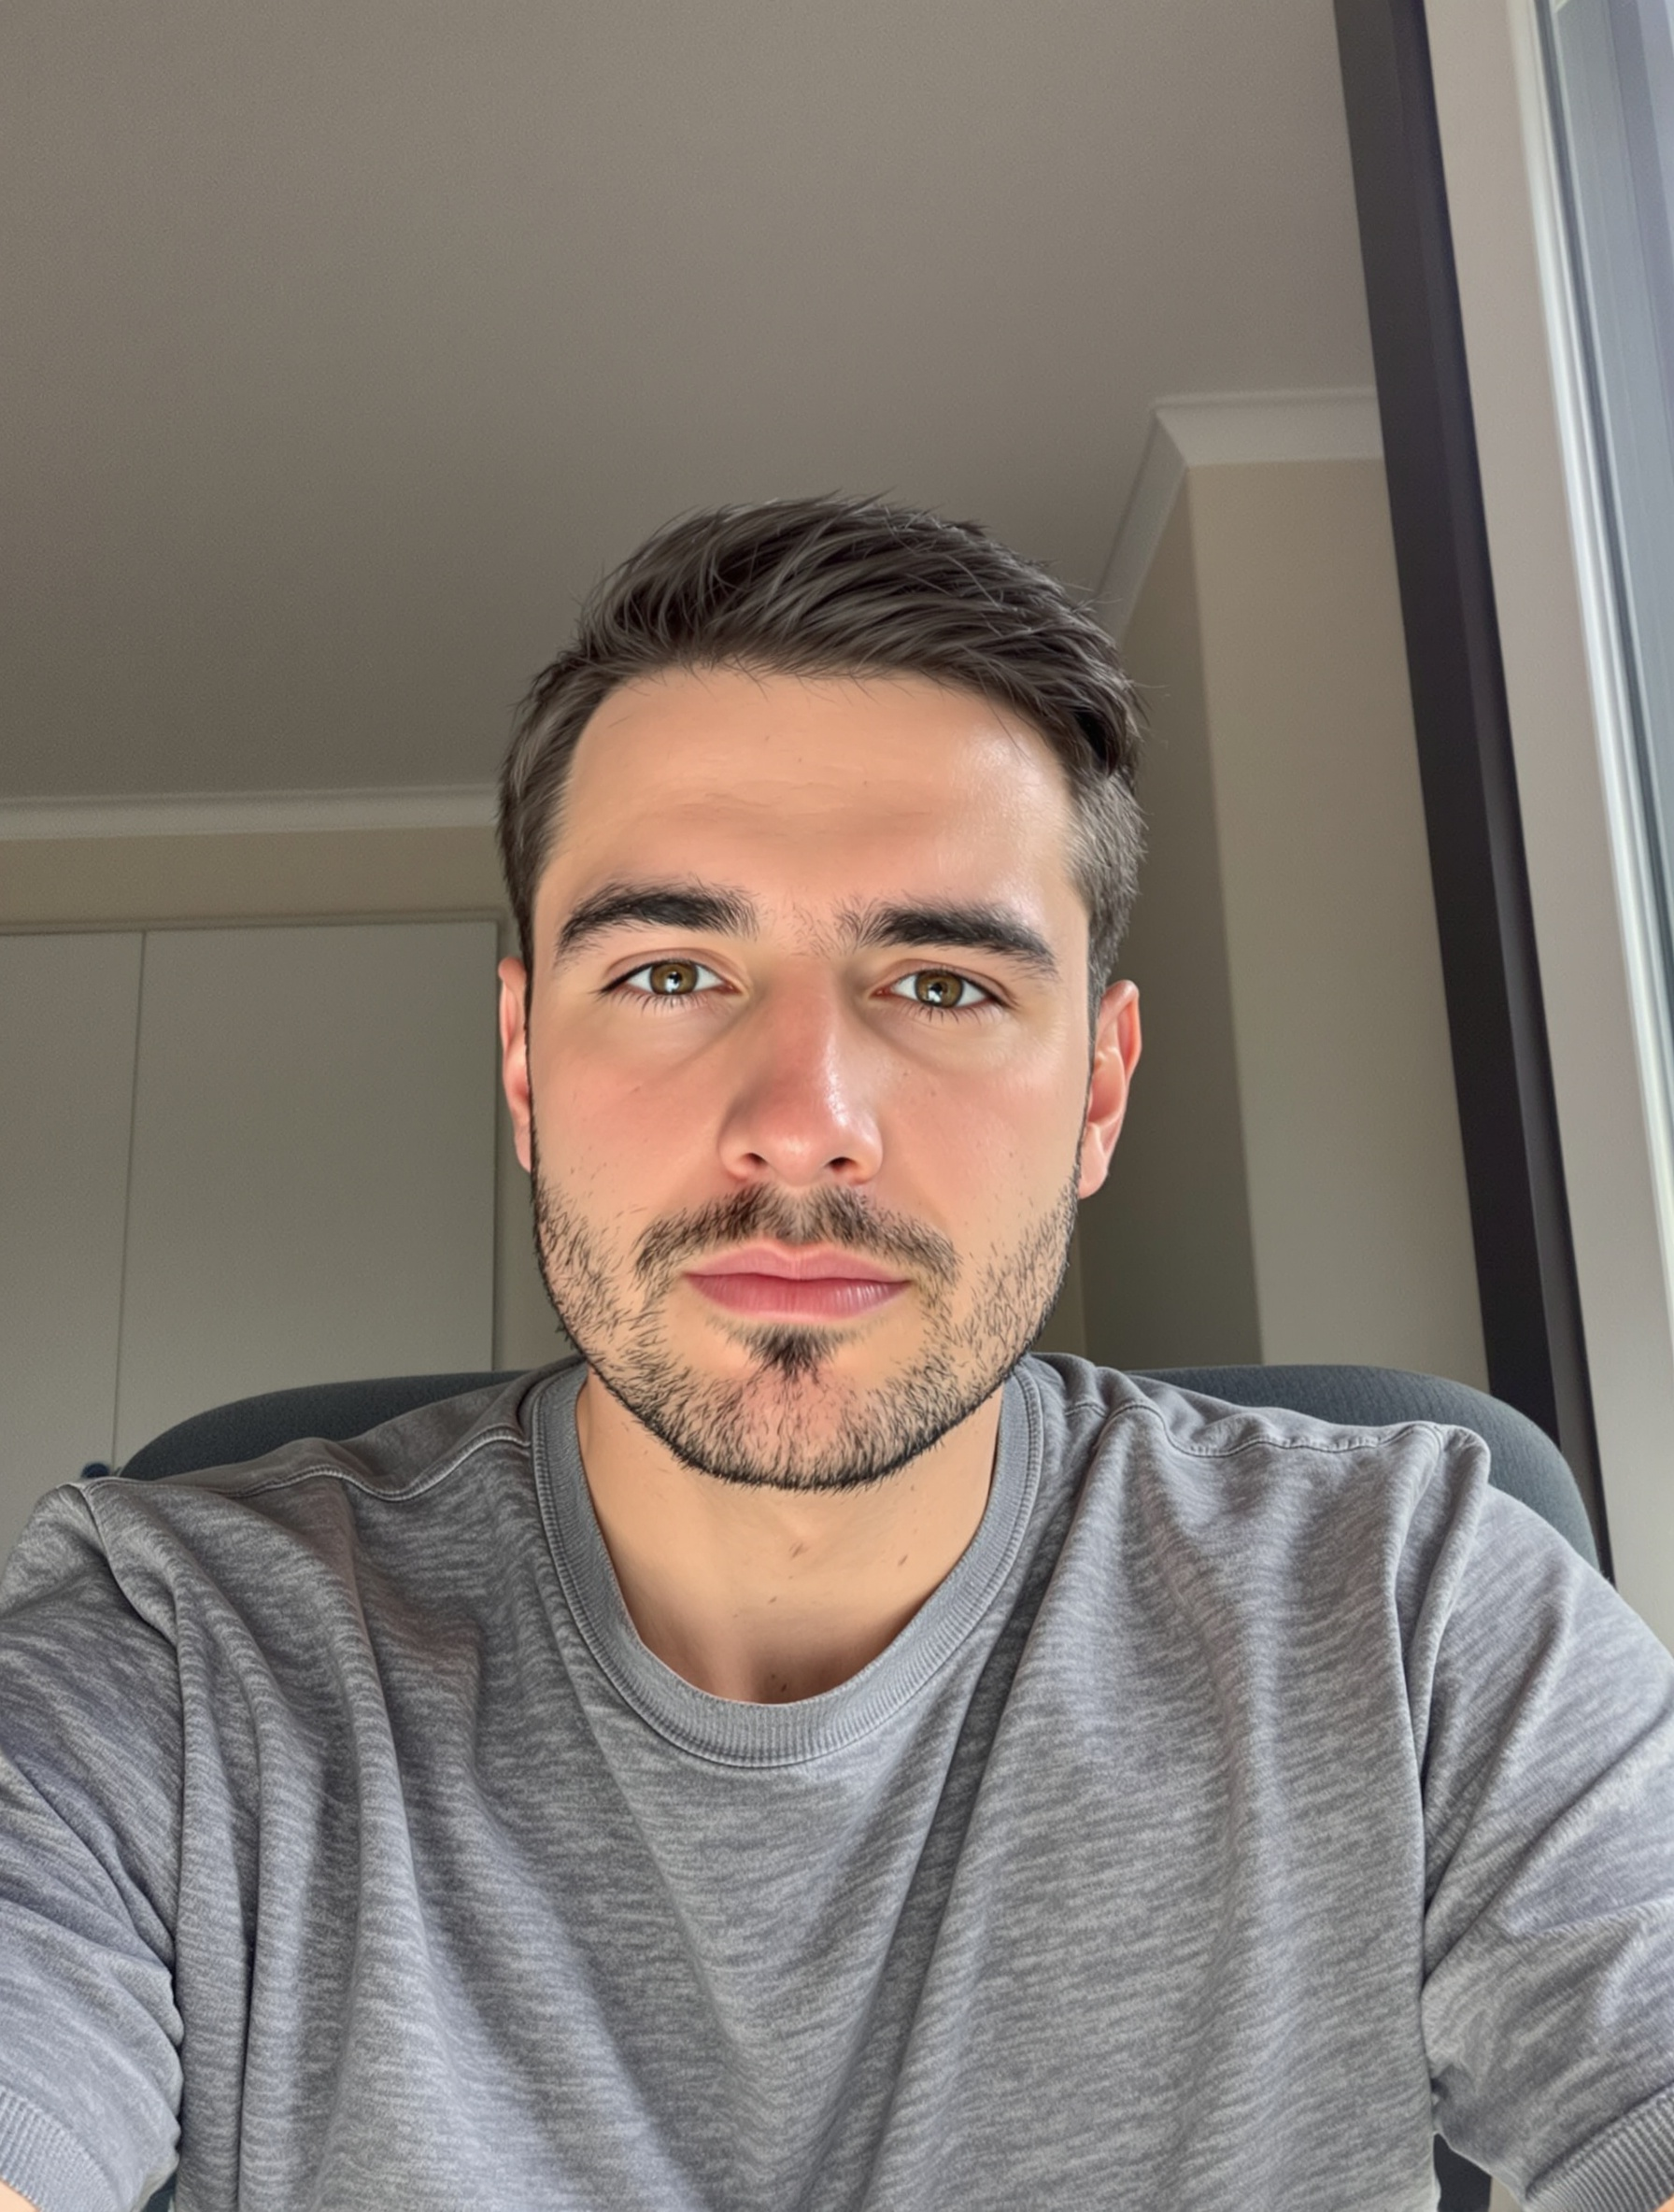
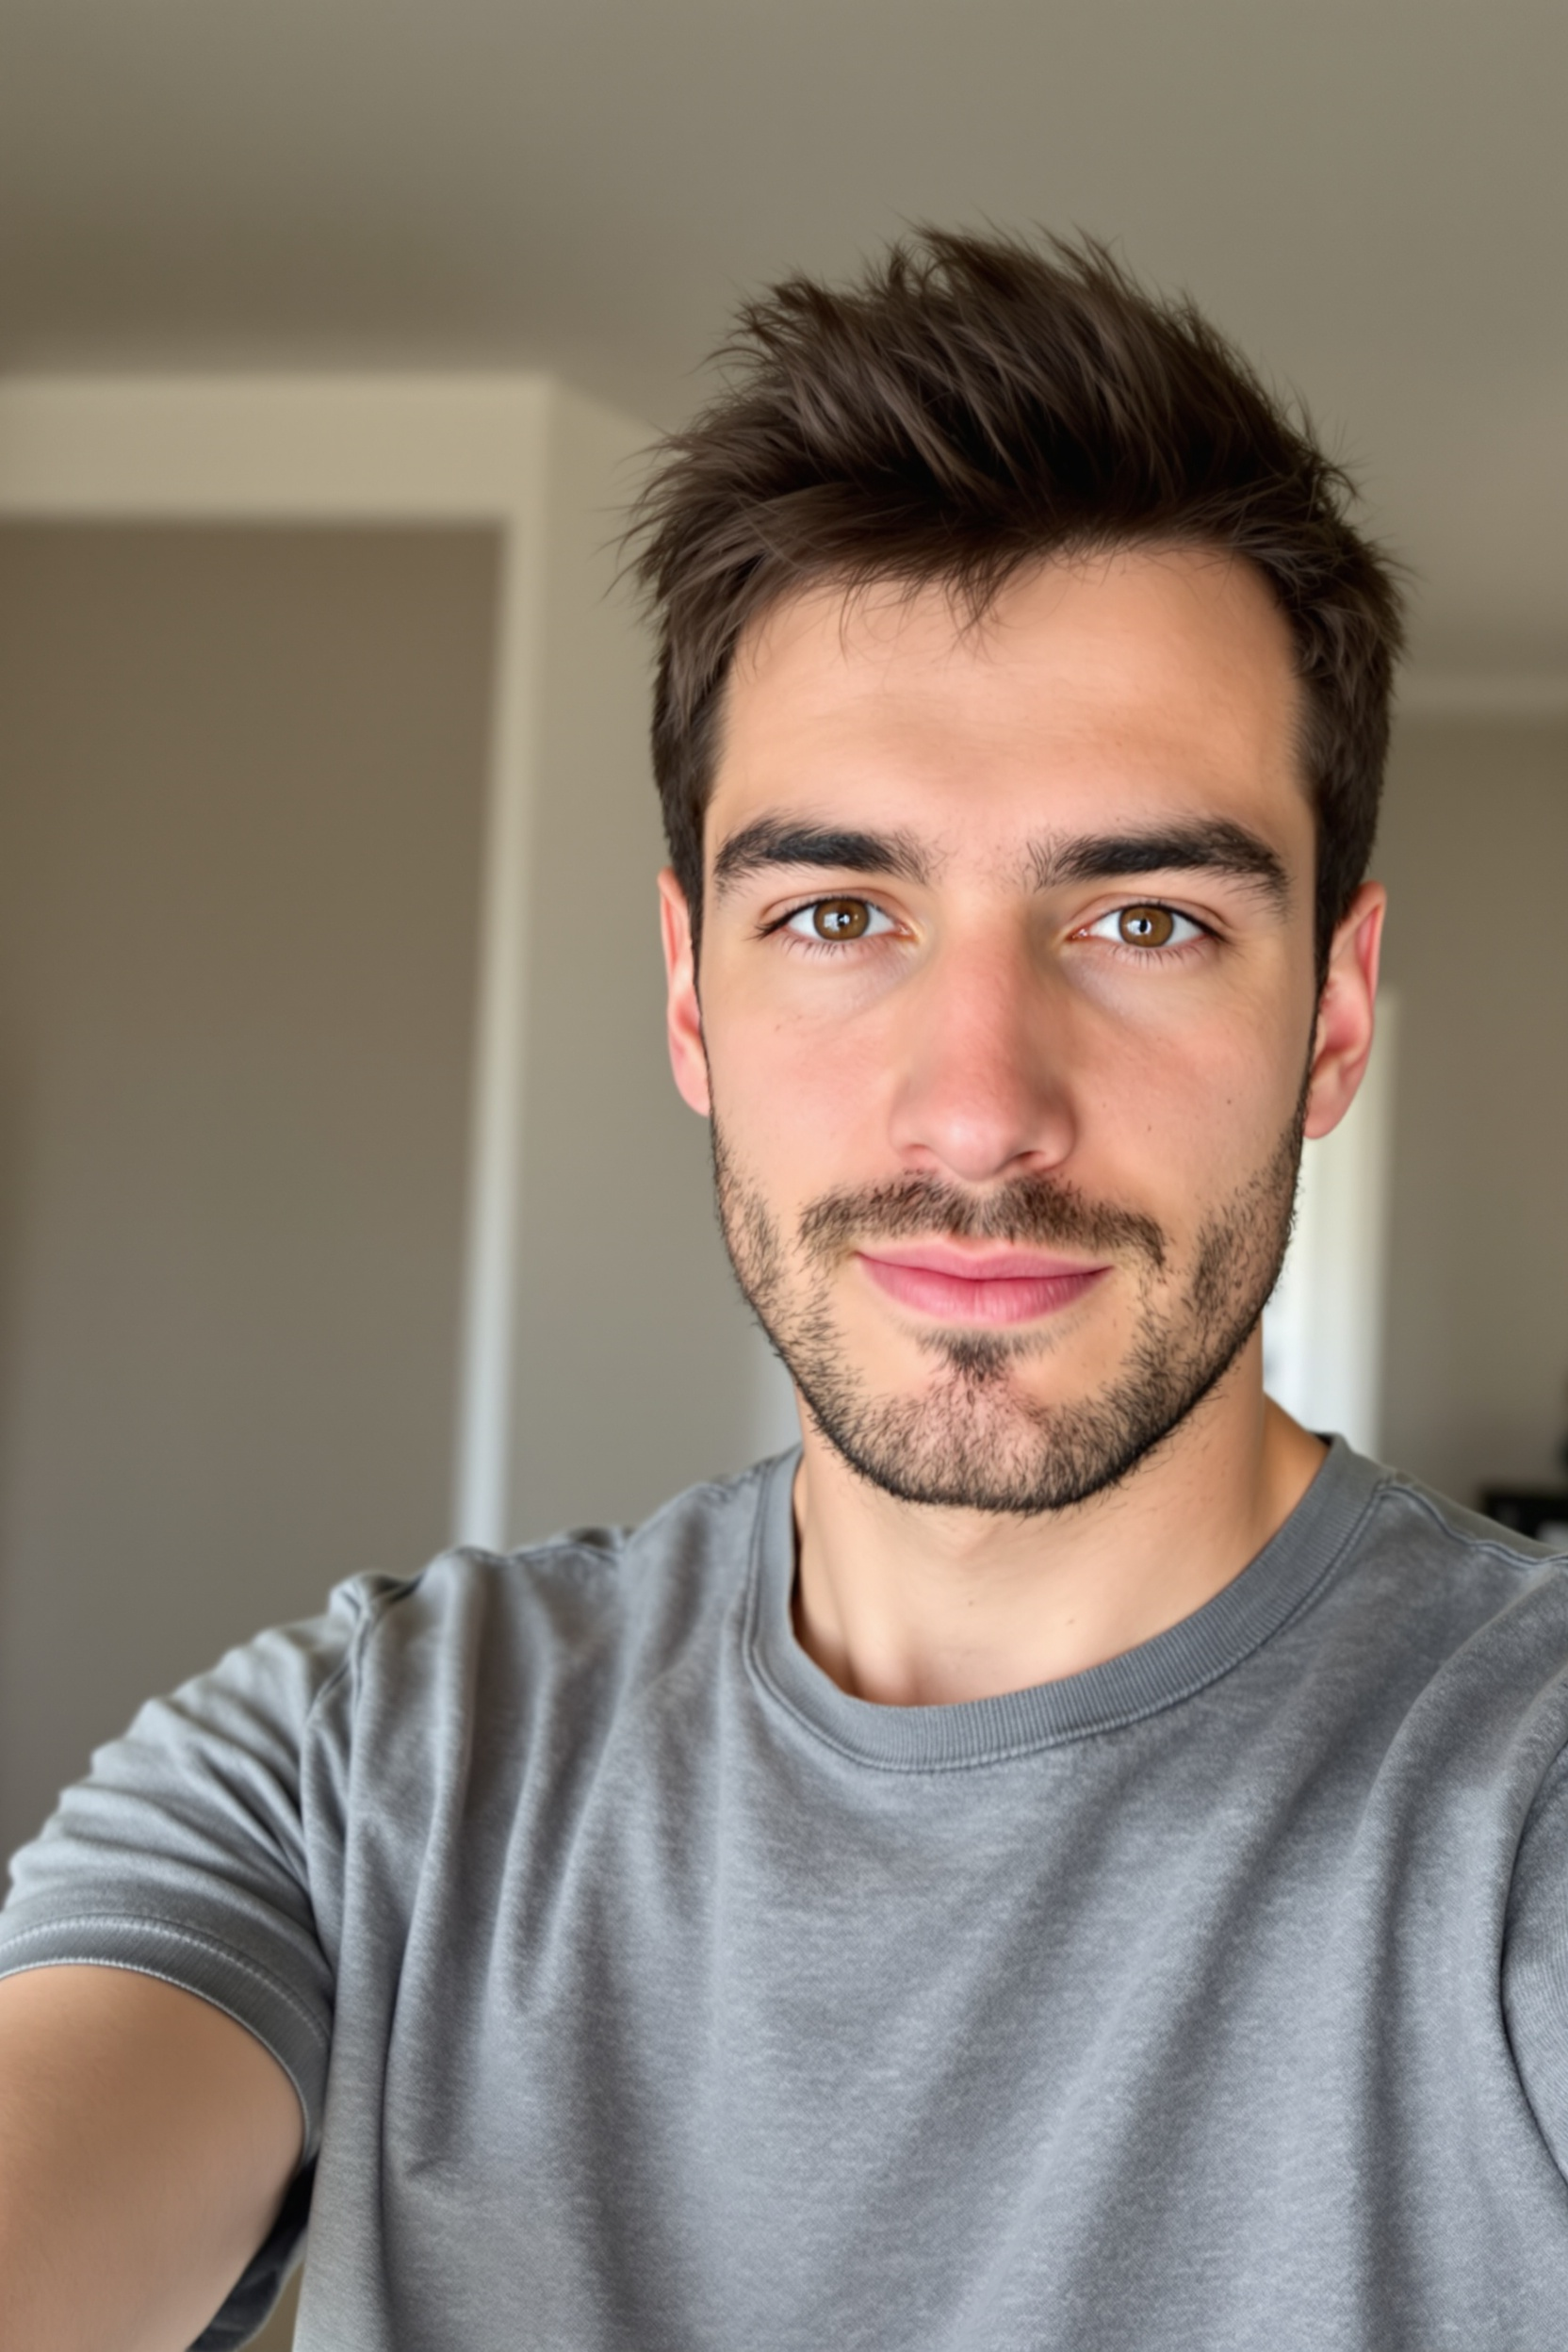
New before/after photos + fix copy

diff --git a/src/app/page.tsx b/src/app/page.tsx
@@ -156,13 +156,10 @@ export default function HomePage() {
                   Transformations
                 </p>
                 <h2 className="font-display mt-5 text-3xl font-normal leading-[1.12] tracking-[-0.02em] text-gradient-display sm:text-4xl lg:text-[2.65rem]">
-                  Real inputs.
-                  <br />
-                  <span className="text-muted-foreground">Real outputs.</span>
+                  See what&apos;s possible.
                 </h2>
                 <p className="mt-6 text-base leading-relaxed tracking-tight text-muted-foreground">
-                  Authentic before and after from our own generations — not stock. Your results
-                  follow the same pipeline from your photos.
+                  Example transformations — your results are trained on your own photos.
                 </p>
               </ScrollReveal>
             </div>